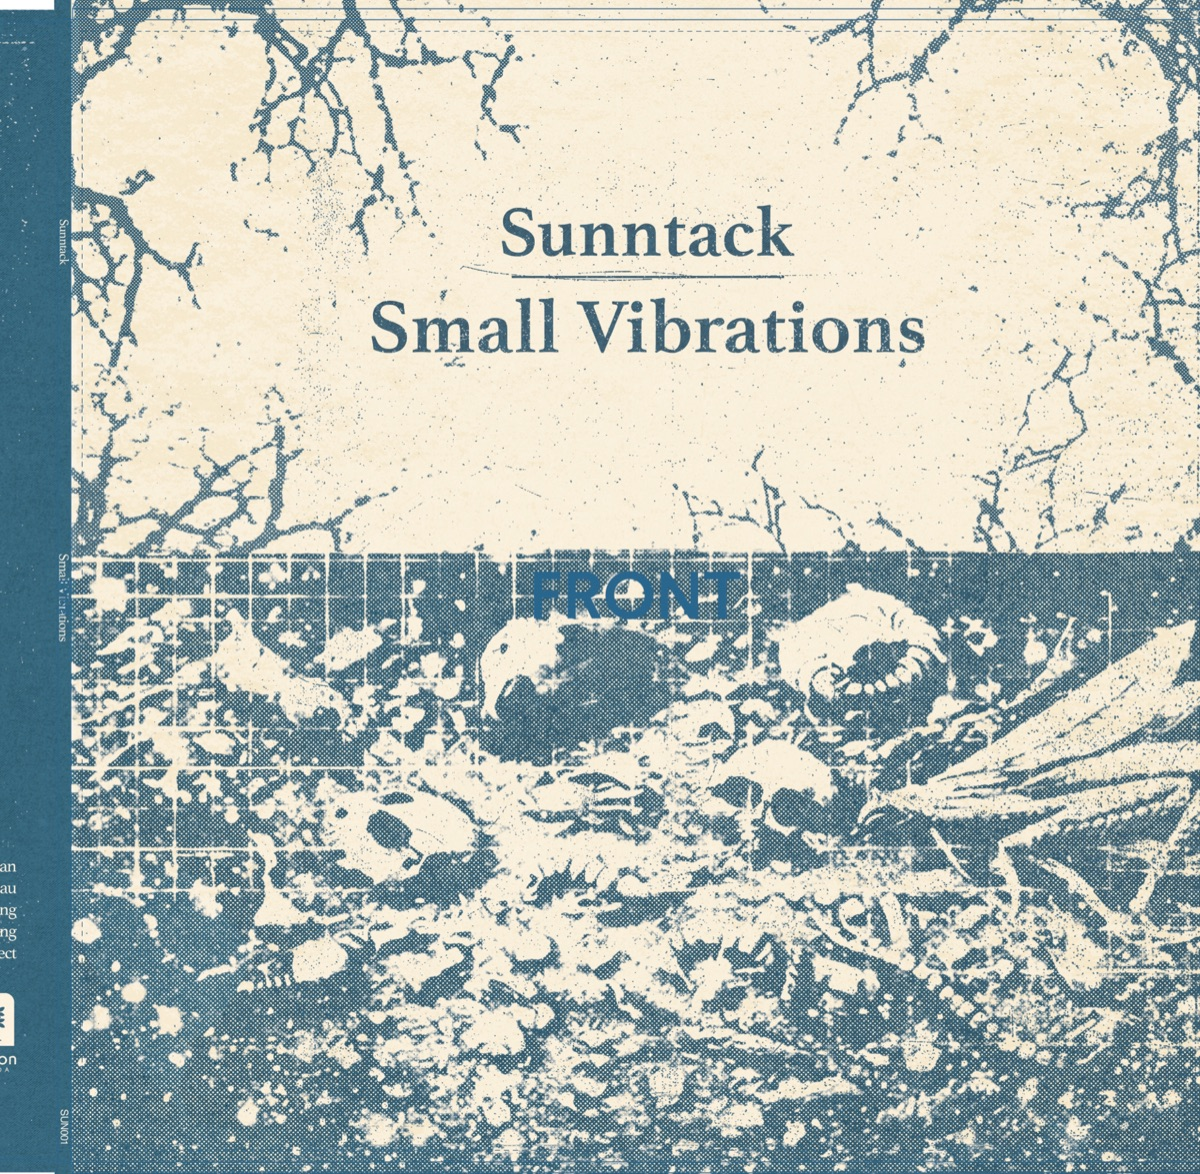
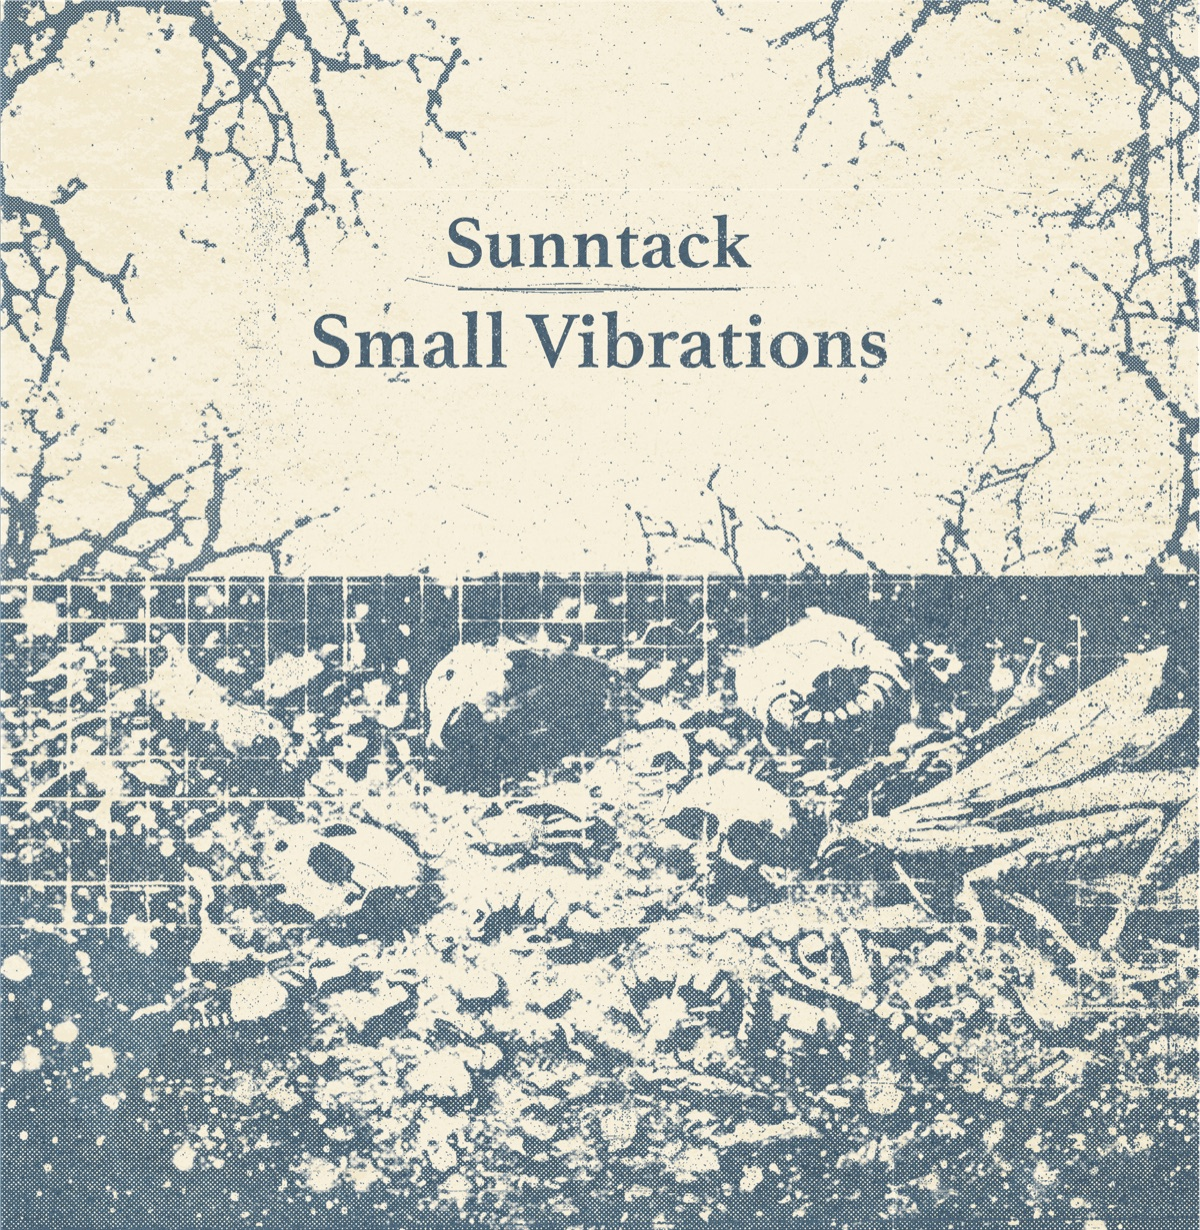
Use the real cover art, drop the redundant attribution
The share card was a jacket mock-up with "FRONT" printed across it.
Replaces it with the final art: public/og-cover.jpg (1200×1230) and
src/assets/cover-front.png (2000px), both from the 3735px master, which
stays outside the repo.

The card is `summary` rather than `summary_large_image` — the cover is
square, and a wide card centre-crops to 1.91:1, cutting the title off the
top and the specimen field off the bottom.

The album note's "Written & performed by Sunntack." is now redundant
beside the credits block, which attributes the same thing more precisely.

src/assets/README.md now marks which files are final and which are
mock-ups. It didn't before, which is how the mock-up shipped. It also
flags Sunntack_MAR17.pdf as an outdated proof: its tracklist does not
match the released record, so nothing should be read off it — src/tracks.ts
is correct.

diff --git a/index.html b/index.html
@@ -24,9 +24,15 @@
     <meta property="og:url" content="https://www.alexmaclean.ca/small-vibrations/" />
     <meta property="og:image" content="https://www.alexmaclean.ca/small-vibrations/og-cover.jpg" />
     <meta property="og:image:width" content="1200" />
-    <meta property="og:image:height" content="1174" />
-    <meta property="og:image:alt" content="Small Vibrations album cover — a cyanotype plate." />
-    <meta name="twitter:card" content="summary_large_image" />
+    <meta property="og:image:height" content="1230" />
+    <meta
+      property="og:image:alt"
+      content="Small Vibrations album cover — a cyanotype plate of insect remains on a specimen grid."
+    />
+    <!-- `summary`, not `summary_large_image`: the cover is square, and a wide
+         card centre-crops to 1.91:1, which would cut the title off the top and
+         the specimen field off the bottom. A square thumbnail shows it whole. -->
+    <meta name="twitter:card" content="summary" />
 
     <!-- PWA / Add to Home Screen — true iOS fullscreen (no Fullscreen API on
          iPhone Safari otherwise). start_url is relative ("."), and this link

diff --git a/src/ui/Frame.ts b/src/ui/Frame.ts
@@ -69,7 +69,7 @@ const NOTES: Record<string, string> = {
  *  anyone who declined the mic — in browse mode it describes something that
  *  isn't happening. See `albumNoteFor`. */
 const ALBUM_NOTE_BASE =
-  'Written & performed by Sunntack. Every visualization is generated live and reseeds on each play. ' +
+  'Every visualization is generated live and reseeds on each play. ' +
   'Cyanotype plates after 19th-century field guides.';
 const ALBUM_NOTE_MIC =
   'This page listens through your microphone and matches its visuals to whatever track is spinning.';

diff --git a/src/assets/README.md b/src/assets/README.md
@@ -1,11 +1,19 @@
 # Assets
 
-Drop the album sleeve files here when ready:
+Reference art. Nothing here is imported by the app — the shipped derivative
+is `public/og-cover.jpg` (the share card), generated from `cover-front.png`.
 
-- `cover-front.png` — front of the gatefold (Sunntack / Small Vibrations)
-- `cover-back.png`  — back of the gatefold (tracklist + cracked-marble texture)
-- `marble-tile.png` — optional cropped tileable section of the back-cover
-  marble for the UI frame border
+**Check this list before treating a file here as final.** `cover-front.png`
+used to be a jacket mock-up with "FRONT" printed across it, and it got
+shipped as the share card on that basis.
+
+- `cover-front.png` — **final art.** Front cover, 2000px, downscaled from the
+  3735px master (which lives outside the repo).
+- `cover-back.png`  — placeholder mock-up, not final.
+- `marble-tile.png` — placeholder mock-up, not final.
+- `Sunntack_MAR17.pdf` — **outdated proof.** A March jacket layout whose
+  tracklist does not match the released record; `src/tracks.ts` is correct.
+  Anything else read off this PDF is suspect for the same reason.
 
 The current scaffold uses CSS-only chrome inspired by the sleeve palette
 (`#ece4cf` cream, `#1f5d7a` teal, `#0a2230` ink). Once these files are
